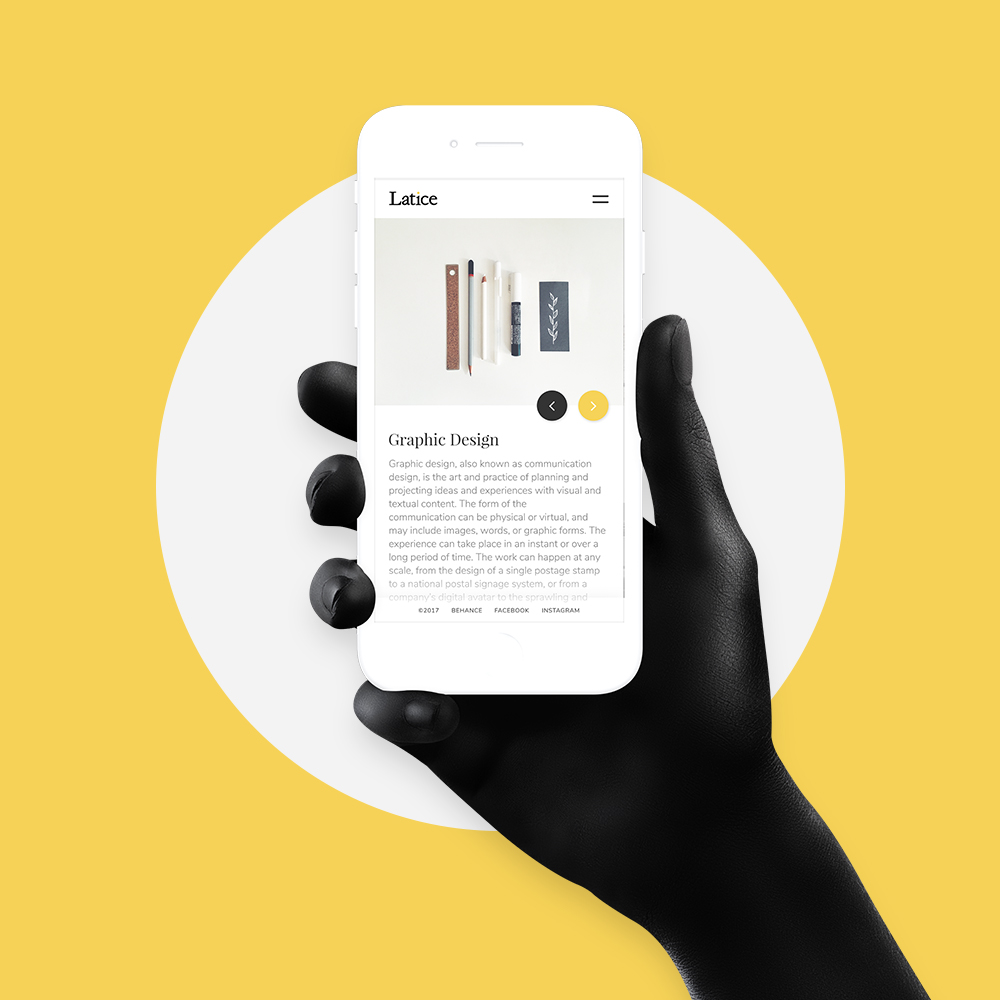
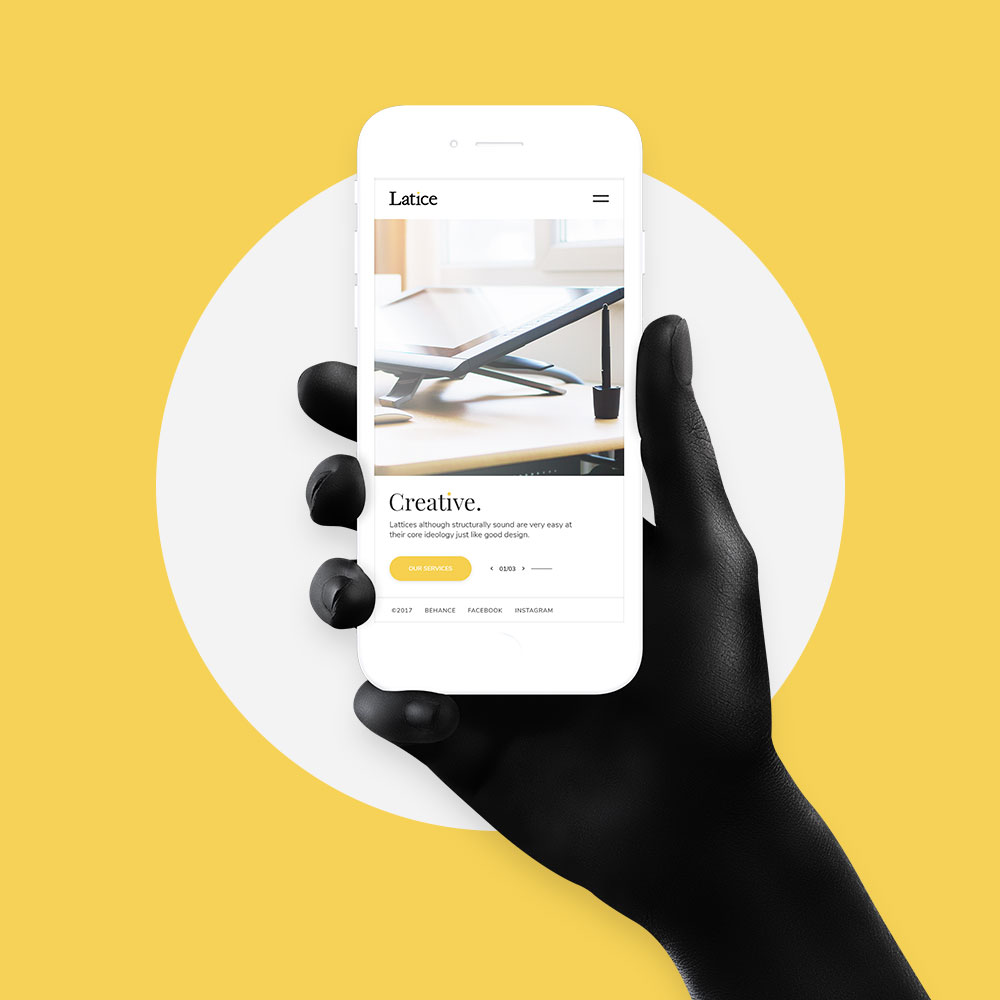
update

Changed region(s): [[0.372, 0.217, 0.651, 0.62]]

diff --git a/project01.html b/project01.html
@@ -3,7 +3,7 @@
 
 <head>
 
-    <title>Project - Latice Studio</title>
+    <title>Project - Latice Design Studio</title>
     <meta name="viewport" content="width=device-width, initial-scale=1.0" />
     <meta charset="UTF-8" />
         
@@ -108,7 +108,7 @@
             <!-- Hero Section -->
             <div id="hero">
                 <div id="hero-styles" class="opacity-onscroll scale-onscroll">
-                	<div id="hero-bg-image" class="light-content" style="background-image:url(images/projects/01hero.jpg)"><div id="grain-hero"></div></div>
+                	<div id="hero-bg-image" class="light-content" style="background-image:url(images/projects/latice/01slider.jpg)"><div id="grain-hero"></div></div>
                 
                     <div id="hero-caption">
                         <div class="inner">
@@ -135,7 +135,26 @@
                     <div class="container">
                                   
                         <div class="has-animation" data-delay="100">
-                          <a href="images/projects/Artboard 1.png" class="image-link"><img src="images/projects/Artboard-1.jpg" /></a>
+                         <!--  <a href="images/projects/Artboard 1.png" > -->
+                          	<img src="images/projects/latice/latice_01.jpg" />
+                          	<img src="images/projects/latice/latice_02.jpg" />
+                          	<img src="images/projects/latice/latice_03.jpg" />
+                          	<img src="images/projects/latice/latice_04.jpg"/>
+                          	<img src="images/projects/latice/latice_05.jpg"/>
+                          	<img src="images/projects/latice/latice_06.jpg" />
+                          	<img src="images/projects/latice/latice_07.jpg" />
+                          	<img src="images/projects/latice/latice_08.jpg" />
+                          	<img src="images/projects/latice/latice_09.jpg" />
+                          	<img src="images/projects/latice/latice_10.jpg" />
+                          	<img src="images/projects/latice/latice_11.jpg" />
+                          	<img src="images/projects/latice/latice_12.jpg" />
+                          	<img src="images/projects/latice/latice_13.jpg" />
+                          	<img src="images/projects/latice/latice_14.jpg" />
+                          	<img src="images/projects/latice/latice_15.jpg" />
+                          	<img src="images/projects/latice/latice_16.jpg" />
+                          	<img src="images/projects/latice/latice_17.jpg" />
+                          	<img src="images/projects/latice/latice_18.jpg" />
+                          </a>
                         </div>
                        
                         

diff --git a/about.html b/about.html
@@ -112,7 +112,7 @@
                     <div id="hero-caption">
                         <div class="inner">
                             <div class="hero-subtitle">Geek. Minimalist.</div>
-                            <div class="hero-title">I carry a passion for good design.</div>                        
+                            <div class="hero-title">I carry passion for good design.</div>                        
                         </div>
                     </div>
                 
@@ -137,7 +137,7 @@
                         
                         <h3>Introduction</h3>
                         
-                        <p>I'm Vishal Chavan, a B.Sc.IT graduate based in Navi Mumbai. I have a year of professional exprience in designing creative solutions for complex business problems. I create complete design solutions for the end user ensuring the best usability and eye-candy visuals. Attenton to detail is my forte (My mild OCD helps a lot!).</p>
+                        <p>Hi, I am a multidisciplinary designer based in Navi Mumbai specializing in User Experience and User Interface. I strive to blend innovation and digital craftsmanship in my work to make beautiful and cohesive user experiences through deliberate and passionate design. Throughout the design process, I work to create usable and polished work that just works and feels right. I like to focus on the little details(My mild OCD helps a lot!), the pixel perfection that make my designs stand out from the ordinary.</p>
                         
                         <hr><hr>
                         

diff --git a/project02.html b/project02.html
@@ -128,7 +128,7 @@
                            
                 
                 <!-- Row -->
-                <div class="vc_row row_padding_top row_padding_bottom">
+               <!--  <div class="vc_row row_padding_top row_padding_bottom">
                     
                     <div class="container">
                         
@@ -144,19 +144,29 @@
                         
                     </div>
                     
-                </div>
+                </div> -->
                 <!--/Row -->
                             
                 
-                <div id="project-nav" class="has-animation" data-delay="100">
+                <!-- <div id="project-nav" class="has-animation" data-delay="100">
                     
                     <a  class="ajax-link project-next" data-type="page-transition" href="project03.html">
                     <div class="nav-project-title">Retroduck</div>
                     <div class="nav-title">next</div>
                     
                     </a>
+                </div> -->
+             <!-- Row -->
+                <div class="vc_row full text-align-center has-animation" data-delay="10">
+                    
+                    <div class="container">
+                        
+                        <h1>Nothing to see here yet, come back later.</h1>
+                        
+                    </div>
+                    
                 </div>
-            
+                <!--/Row -->
                         
             </div>
             <!--/Main Content -->

diff --git a/index.html b/index.html
@@ -149,7 +149,7 @@
                                         <div class="item-caption">
                                             <div class="item-overlay">
                                             	<div class="item-sub-mask">
-                                                    <div class="item-cat">Web Design</div>
+                                                    <div class="item-cat">UI/UX</div>
                                                     <div class="item-case">View Project</div>
                                                 </div>
                                                 <div class="item-title">Latice</div>
@@ -196,7 +196,7 @@
                         </div>
                     </div>
                     
-                    <div class="item web">
+                   <!--  <div class="item web">
                     	<div class="item-transform">
                             <div class="item-rotate">
                                 <a href="project03.html" class="ajax-link" data-type="page-transition">
@@ -362,7 +362,7 @@
                                 </a>
                         	</div>
                         </div>
-                    </div>
+                    </div> -->
                                         
                     
                   </div>
